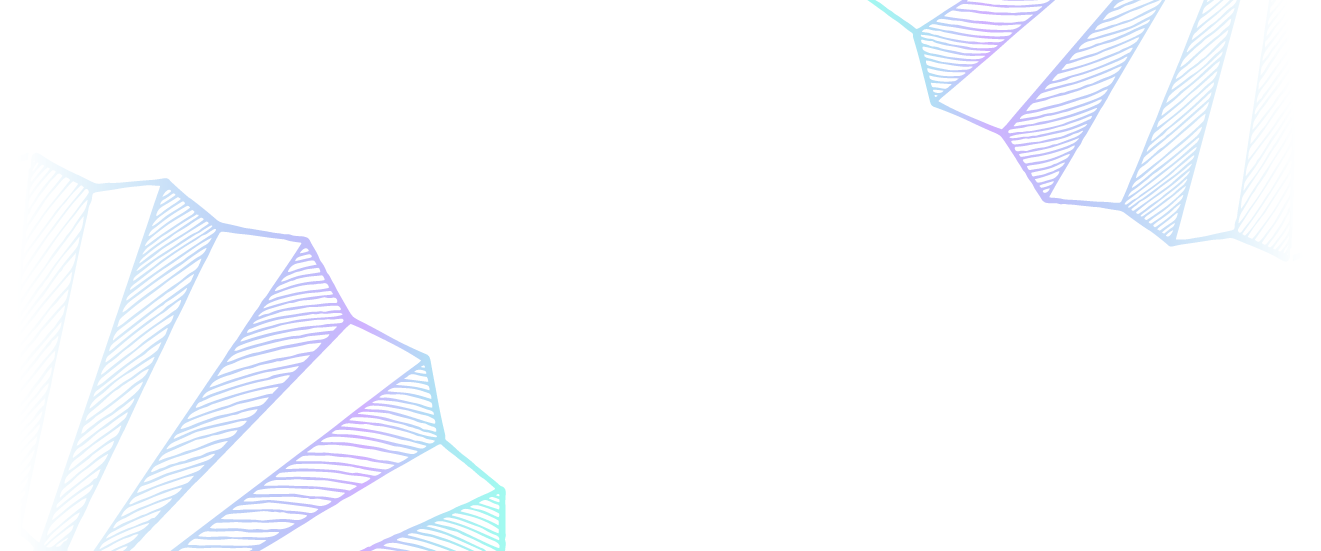
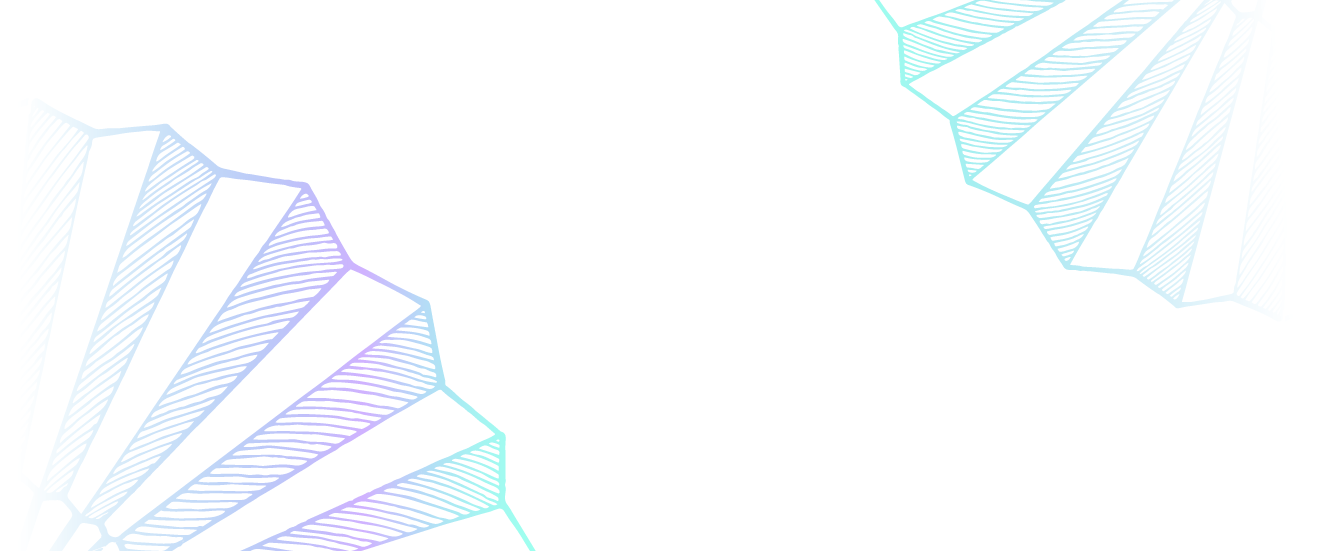
ajustes

Changed region(s): [[0.0621, 0.216, 0.4035, 1.0], [0.6518, 0.0, 0.9621, 0.5554]]

diff --git a/src/components/Hero/Hero.css b/src/components/Hero/Hero.css
@@ -49,7 +49,7 @@
 
 @media screen and (max-width: 1400px) {
   .hero-cont {
-    background: url("../../img/v7.png") no-repeat center
+    background: url("../../img/abanicos-hero.png") no-repeat center
       center;
     background-size: cover;
     height: 550px;

diff --git a/src/components/Footer/Footer.css b/src/components/Footer/Footer.css
@@ -46,7 +46,7 @@ footer a:hover {
 }
 .footer-destinado {
   background-color: rgba(205, 198, 204, 1);
-  color: #99FFEE;
+  color: white;
   width: fit-content;
 }
 
